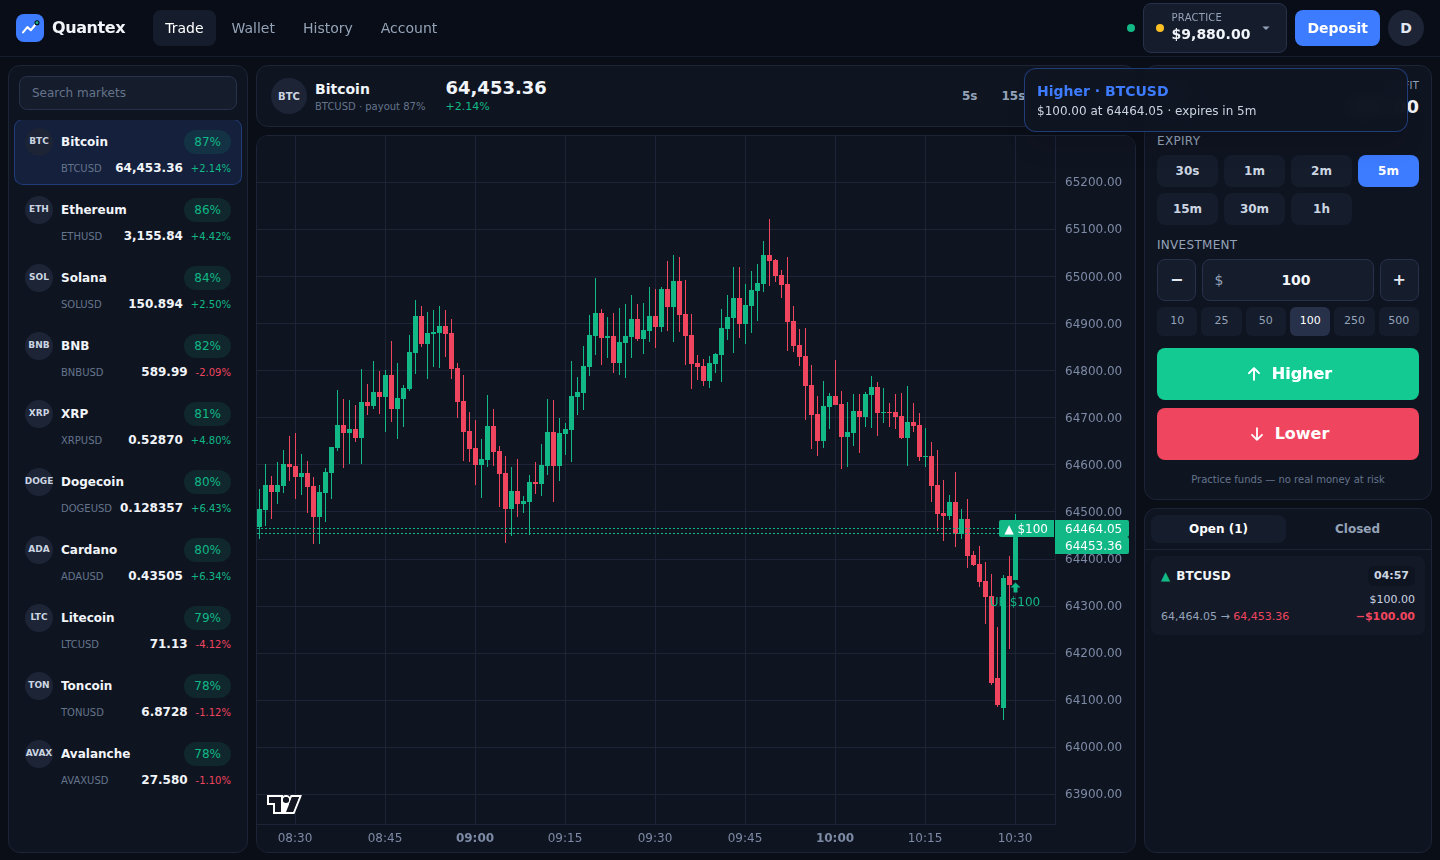
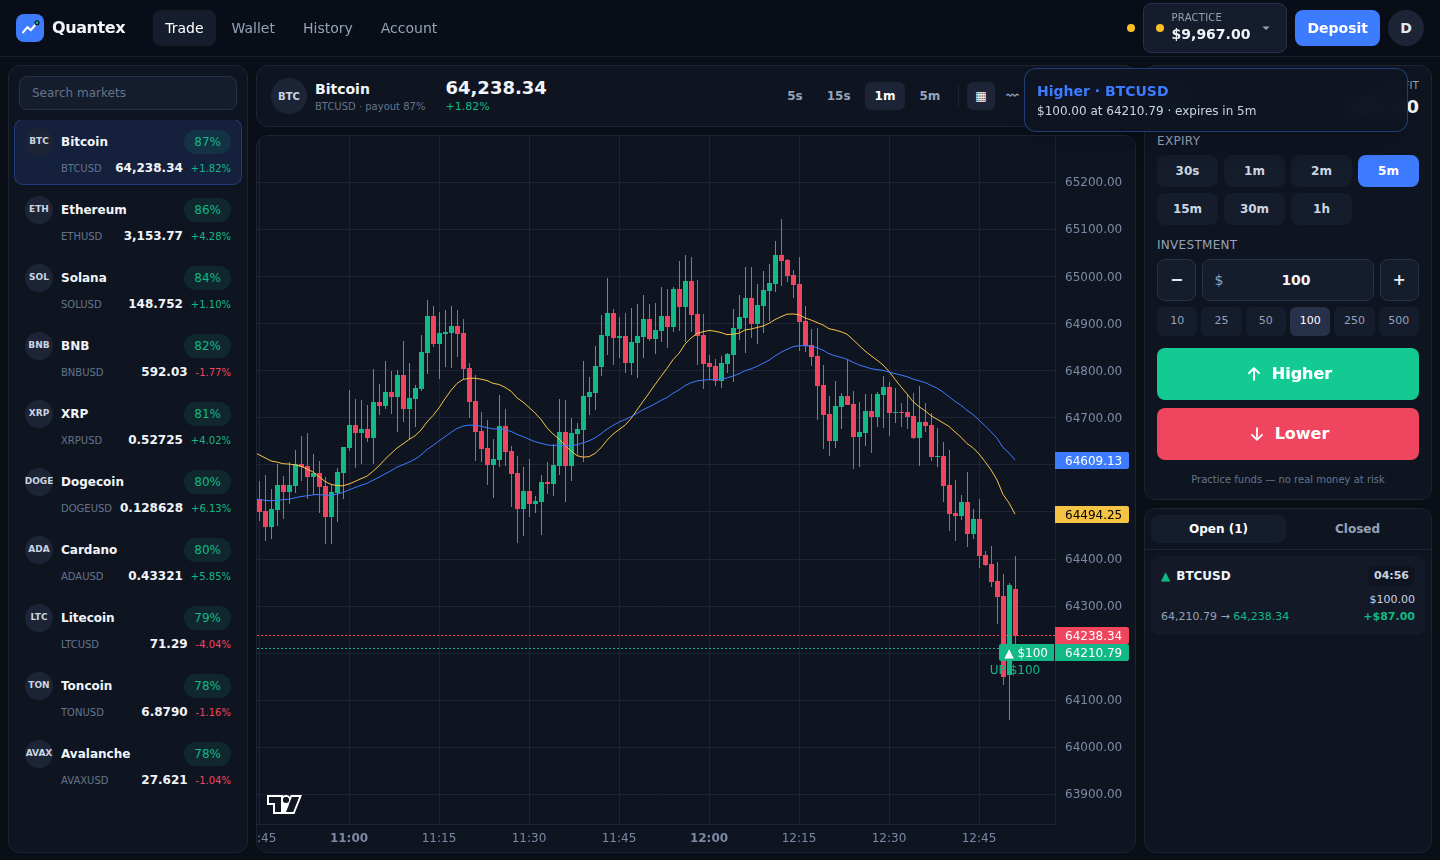
Refresh screenshots for the completed feature set
Claude-Session: https://claude.ai/code/session_01BzvfZrveS5K5cySP2aCqYm

diff --git a/README.md b/README.md
@@ -15,6 +15,10 @@ are the point.
   <img src="docs/screenshots/mobile-terminal.png" width="22%" alt="Terminal on a phone" />
 </p>
 
+<p align="center">
+  <img src="docs/screenshots/account-kyc-referrals.png" width="78%" alt="Identity verification and partner programme" />
+</p>
+
 ## What it does
 
 **Trading**
